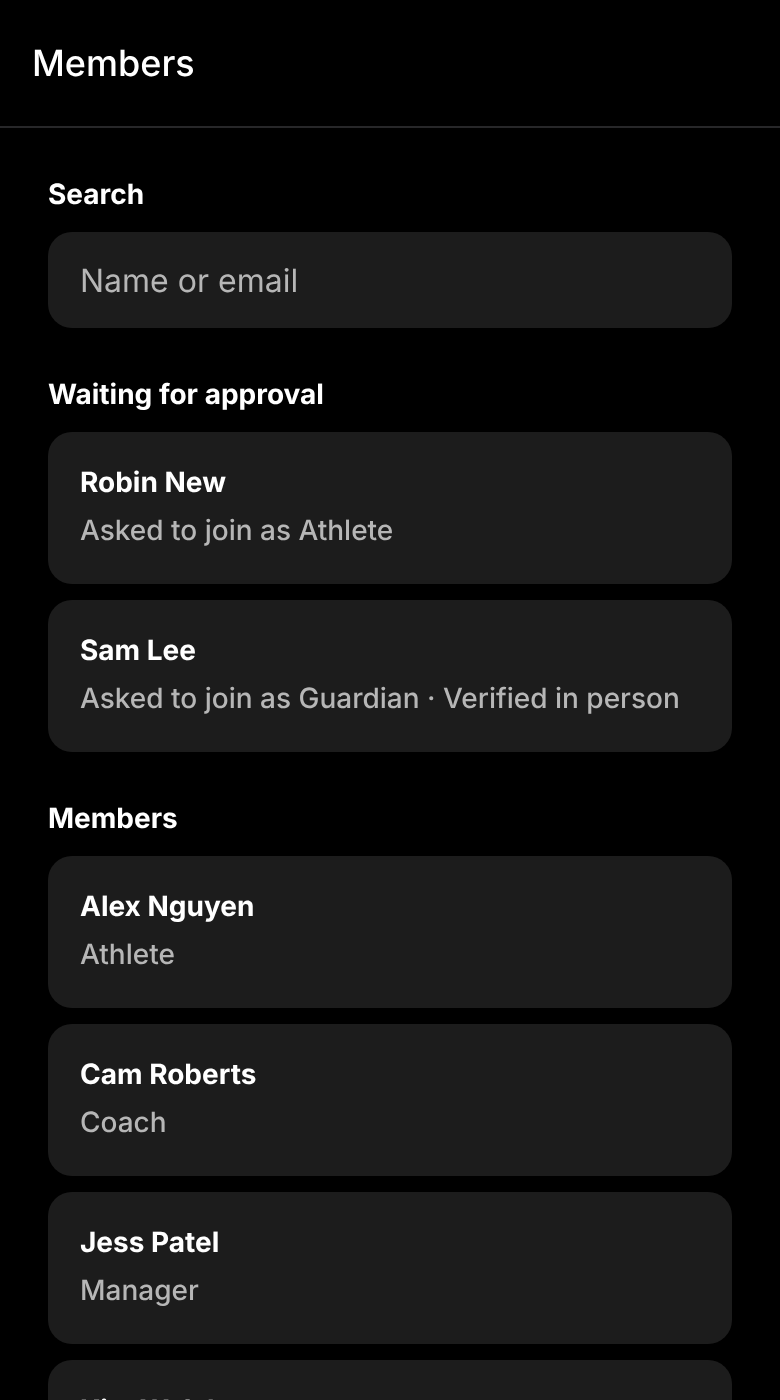
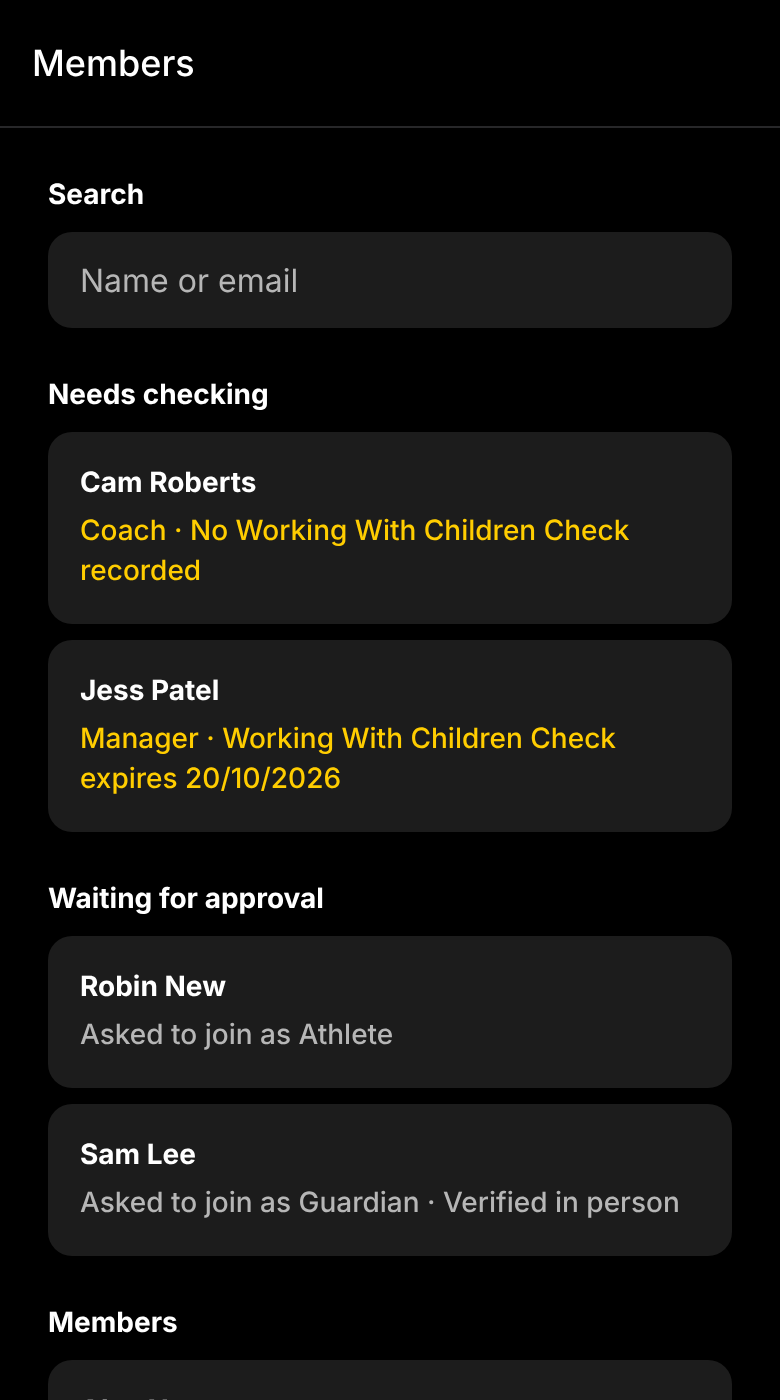
Show who needs a child-safety check on the Members list
The home to-dos for Working With Children Checks, missing guardians and
athletes turning 18 opened Members without saying who they were about.
Members now starts with a "Needs checking" list giving the reason for
each person, using the same rules as admin_safety_todos.

Claude-Session: https://claude.ai/code/session_016aJr2TJcFYLsj5Edy5U3ai

Changed region(s): [[0.0615, 0.3379, 0.9538, 0.9829], [0.0615, 0.2764, 0.4308, 0.3071]]

diff --git a/src/app/admin/index.tsx b/src/app/admin/index.tsx
@@ -8,20 +8,27 @@ import { PressableCard, TextField } from '@/components/ui';
 import { Spacing } from '@/constants/theme';
 import { PROFILE_COLUMNS } from '@/lib/auth';
 import { rejectionReasonLabels, roleLabels } from '@/lib/labels';
+import { safetyIssues } from '@/lib/safety';
 import { supabase } from '@/lib/supabase';
 import type { Profile } from '@/lib/types';
 
 export default function MembersScreen() {
   const [members, setMembers] = useState<Profile[]>([]);
+  const [withGuardian, setWithGuardian] = useState<Set<string>>(new Set());
   const [search, setSearch] = useState('');
   const [refreshing, setRefreshing] = useState(false);
 
   const load = useCallback(async () => {
-    const { data } = await supabase
-      .from('profiles')
-      .select(PROFILE_COLUMNS)
-      .order('full_name', { nullsFirst: false });
-    setMembers((data as Profile[] | null) ?? []);
+    const [profilesResult, guardiansResult] = await Promise.all([
+      supabase.from('profiles').select(PROFILE_COLUMNS).order('full_name', { nullsFirst: false }),
+      supabase.from('guardianships').select('athlete_id'),
+    ]);
+    setMembers((profilesResult.data as Profile[] | null) ?? []);
+    setWithGuardian(
+      new Set(
+        ((guardiansResult.data as { athlete_id: string }[] | null) ?? []).map((g) => g.athlete_id),
+      ),
+    );
   }, []);
 
   useFocusEffect(
@@ -46,6 +53,9 @@ export default function MembersScreen() {
     .filter((m) => m.status === 'pending' && m.join_requested_at)
     .sort((a, b) => (a.join_requested_at ?? '').localeCompare(b.join_requested_at ?? ''));
   const approved = matching.filter((m) => m.status === 'approved');
+  // The people behind the child-safety to-dos on the home screen, with why.
+  const issues = new Map(approved.map((m) => [m.id, safetyIssues(m, withGuardian.has(m.id))]));
+  const needsChecking = approved.filter((m) => issues.get(m.id)?.length);
   const notRequested = matching.filter((m) => m.status === 'pending' && !m.join_requested_at);
   const rejected = matching.filter((m) => m.status === 'rejected');
 
@@ -59,6 +69,12 @@ export default function MembersScreen() {
         autoCapitalize="none"
       />
       <Section
+        title="Needs checking"
+        members={needsChecking}
+        describe={(m) => `${roleLabels[m.role]} · ${issues.get(m.id)?.join(' · ')}`}
+        warn
+      />
+      <Section
         title="Waiting for approval"
         empty="No requests waiting."
         members={waiting}
@@ -70,7 +86,9 @@ export default function MembersScreen() {
         title="Members"
         empty="No approved members yet."
         members={approved}
-        describe={(m) => roleLabels[m.role]}
+        describe={(m) =>
+          issues.get(m.id)?.length ? `${roleLabels[m.role]} · Needs checking` : roleLabels[m.role]
+        }
       />
       <Section
         title="Signed in, no request yet"
@@ -93,11 +111,14 @@ function Section({
   empty,
   members,
   describe,
+  warn,
 }: {
   title: string;
   empty?: string;
   members: Profile[];
   describe: (member: Profile) => string;
+  /** Show the description in the club's highlight colour. */
+  warn?: boolean;
 }) {
   if (members.length === 0 && !empty) return null;
   return (
@@ -113,7 +134,7 @@ function Section({
             key={m.id}
             onPress={() => router.push({ pathname: '/admin/[id]', params: { id: m.id } })}>
             <ThemedText type="smallBold">{m.full_name || m.email || 'Unnamed member'}</ThemedText>
-            <ThemedText type="small" themeColor="textSecondary">
+            <ThemedText type="small" themeColor={warn ? 'tint' : 'textSecondary'}>
               {describe(m)}
             </ThemedText>
           </PressableCard>

diff --git a/src/lib/safety.ts b/src/lib/safety.ts
@@ -1,0 +1,50 @@
+import { formatDate, isMinor } from '@/lib/age';
+import type { AppRole, Profile } from '@/lib/types';
+
+/** Roles that need a current Working With Children Check. */
+export const wwccRoles: AppRole[] = ['coach', 'manager', 'physio'];
+
+/** Today's date as YYYY-MM-DD, plus a number of days. */
+function isoDay(addDays = 0) {
+  const now = new Date();
+  const day = new Date(now.getFullYear(), now.getMonth(), now.getDate() + addDays);
+  const month = String(day.getMonth() + 1).padStart(2, '0');
+  const date = String(day.getDate()).padStart(2, '0');
+  return `${day.getFullYear()}-${month}-${date}`;
+}
+
+/**
+ * Why an approved member shows up in the admin's child-safety to-dos, one line
+ * per reason. Same rules as `public.admin_safety_todos` in the database.
+ */
+export function safetyIssues(member: Profile, hasGuardian: boolean): string[] {
+  if (member.status !== 'approved') return [];
+  const issues: string[] = [];
+  const today = isoDay();
+  const in30Days = isoDay(30);
+
+  if (wwccRoles.includes(member.role)) {
+    const number = member.wwcc_number?.trim();
+    const expires = member.wwcc_expires_on;
+    if (!number) {
+      issues.push('No Working With Children Check recorded');
+    } else if (!expires) {
+      issues.push('Working With Children Check has no expiry date');
+    } else if (expires < today) {
+      issues.push(`Working With Children Check expired ${formatDate(expires)}`);
+    } else if (expires < in30Days) {
+      issues.push(`Working With Children Check expires ${formatDate(expires)}`);
+    }
+  }
+
+  if (member.role === 'athlete' && isMinor(member.date_of_birth, member.under_17)) {
+    if (!hasGuardian) issues.push('Under 18 with no guardian linked');
+    if (member.date_of_birth) {
+      const [year, month, day] = member.date_of_birth.split('-');
+      const eighteenth = `${Number(year) + 18}-${month}-${day}`;
+      if (eighteenth <= in30Days) issues.push(`Turns 18 on ${formatDate(eighteenth)}`);
+    }
+  }
+
+  return issues;
+}

diff --git a/src/app/admin/[id].tsx b/src/app/admin/[id].tsx
@@ -16,6 +16,7 @@ import {
   selectionLabels,
   statusLabels,
 } from '@/lib/labels';
+import { wwccRoles } from '@/lib/safety';
 import { supabase } from '@/lib/supabase';
 import type {
   AppRole,
@@ -45,9 +46,6 @@ type Person = {
   role: AppRole;
   verified_at: string | null;
 };
-
-/** Roles that work with children, so need a Working With Children Check. */
-const wwccRoles: AppRole[] = ['coach', 'manager', 'physio'];
 
 /** How many guardians to offer while searching. */
 const GUARDIAN_MATCHES = 6;

diff --git a/docs/user-guide.md b/docs/user-guide.md
@@ -553,7 +553,9 @@ committee), plus run the club's set-up from **Administration** on the home
 screen. Admins' to-do lists include join requests waiting for approval and clearances waiting for
 sign-off, plus child-safety follow-ups: athletes under 18 with no guardian linked, Working With
 Children Checks that are missing, expired or expire within 30 days, and athletes turning 18 within
-30 days. On an installed app, admins also get a push notification for each new join request.
+30 days. Tapping a child-safety to-do opens **Members**, where the people behind it are listed
+first under **Needs checking**. On an installed app, admins also get a push notification for each
+new join request.
 
 <img src="user-guide/admin-home.png" width="210" alt="Admin home screen">
 <img src="user-guide/administration.png" width="210" alt="Administration menu">
@@ -563,6 +565,12 @@ Children Checks that are missing, expired or expire within 30 days, and athletes
 
 **Members** lists everyone, grouped into **Waiting for approval**, **Members**, **Signed in, no
 request yet** and **Not approved**. Search by name or email.
+
+**Needs checking**, at the top, lists the members behind the child-safety to-dos on your home
+screen, with the reason under each name: no Working With Children Check recorded, one that has
+expired or expires within 30 days, an athlete under 18 with no guardian linked, or an athlete about
+to turn 18. They also show "Needs checking" in the main list. Open someone to fix it; once saved,
+they drop off the list.
 
 Open a request to see the person's sign-in email, PlayHQ email and what they asked for. Check them
 against PlayHQ, then:
@@ -594,7 +602,7 @@ When an athlete turns 18, the next time you save them their guardian links are r
 To turn someone down, choose a reason (**PlayHQ email doesn't match**, **Not registered with the
 club** or **Other**) and tap **Don't approve**. They see the reason and can request again.
 
-<img src="user-guide/members.png" width="210" alt="Members list">
+<img src="user-guide/members.png" width="210" alt="Members list with Needs checking at the top">
 <img src="user-guide/member-approve.png" width="210" alt="Approving a guardian's request">
 <img src="user-guide/member-new.png" width="210" alt="Approving an athlete's request">
 
